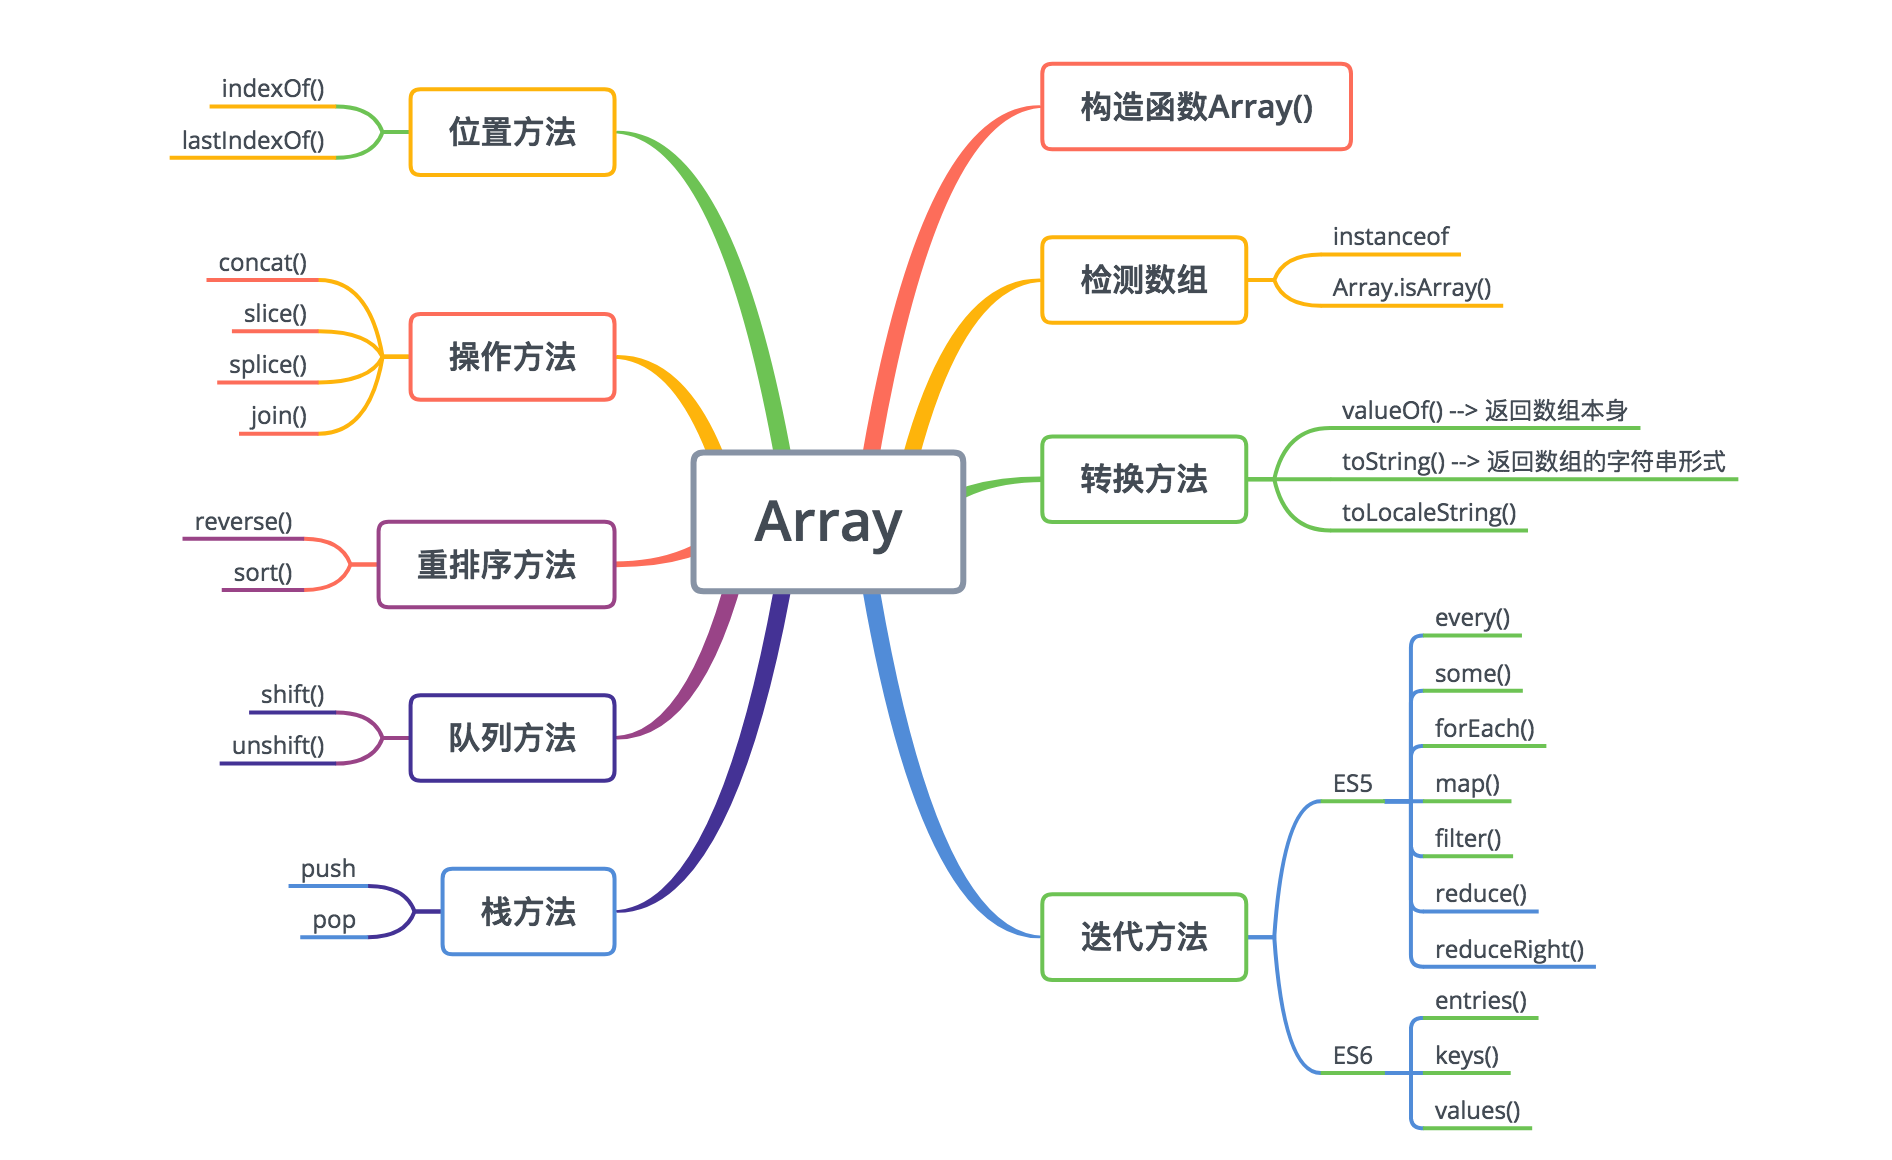
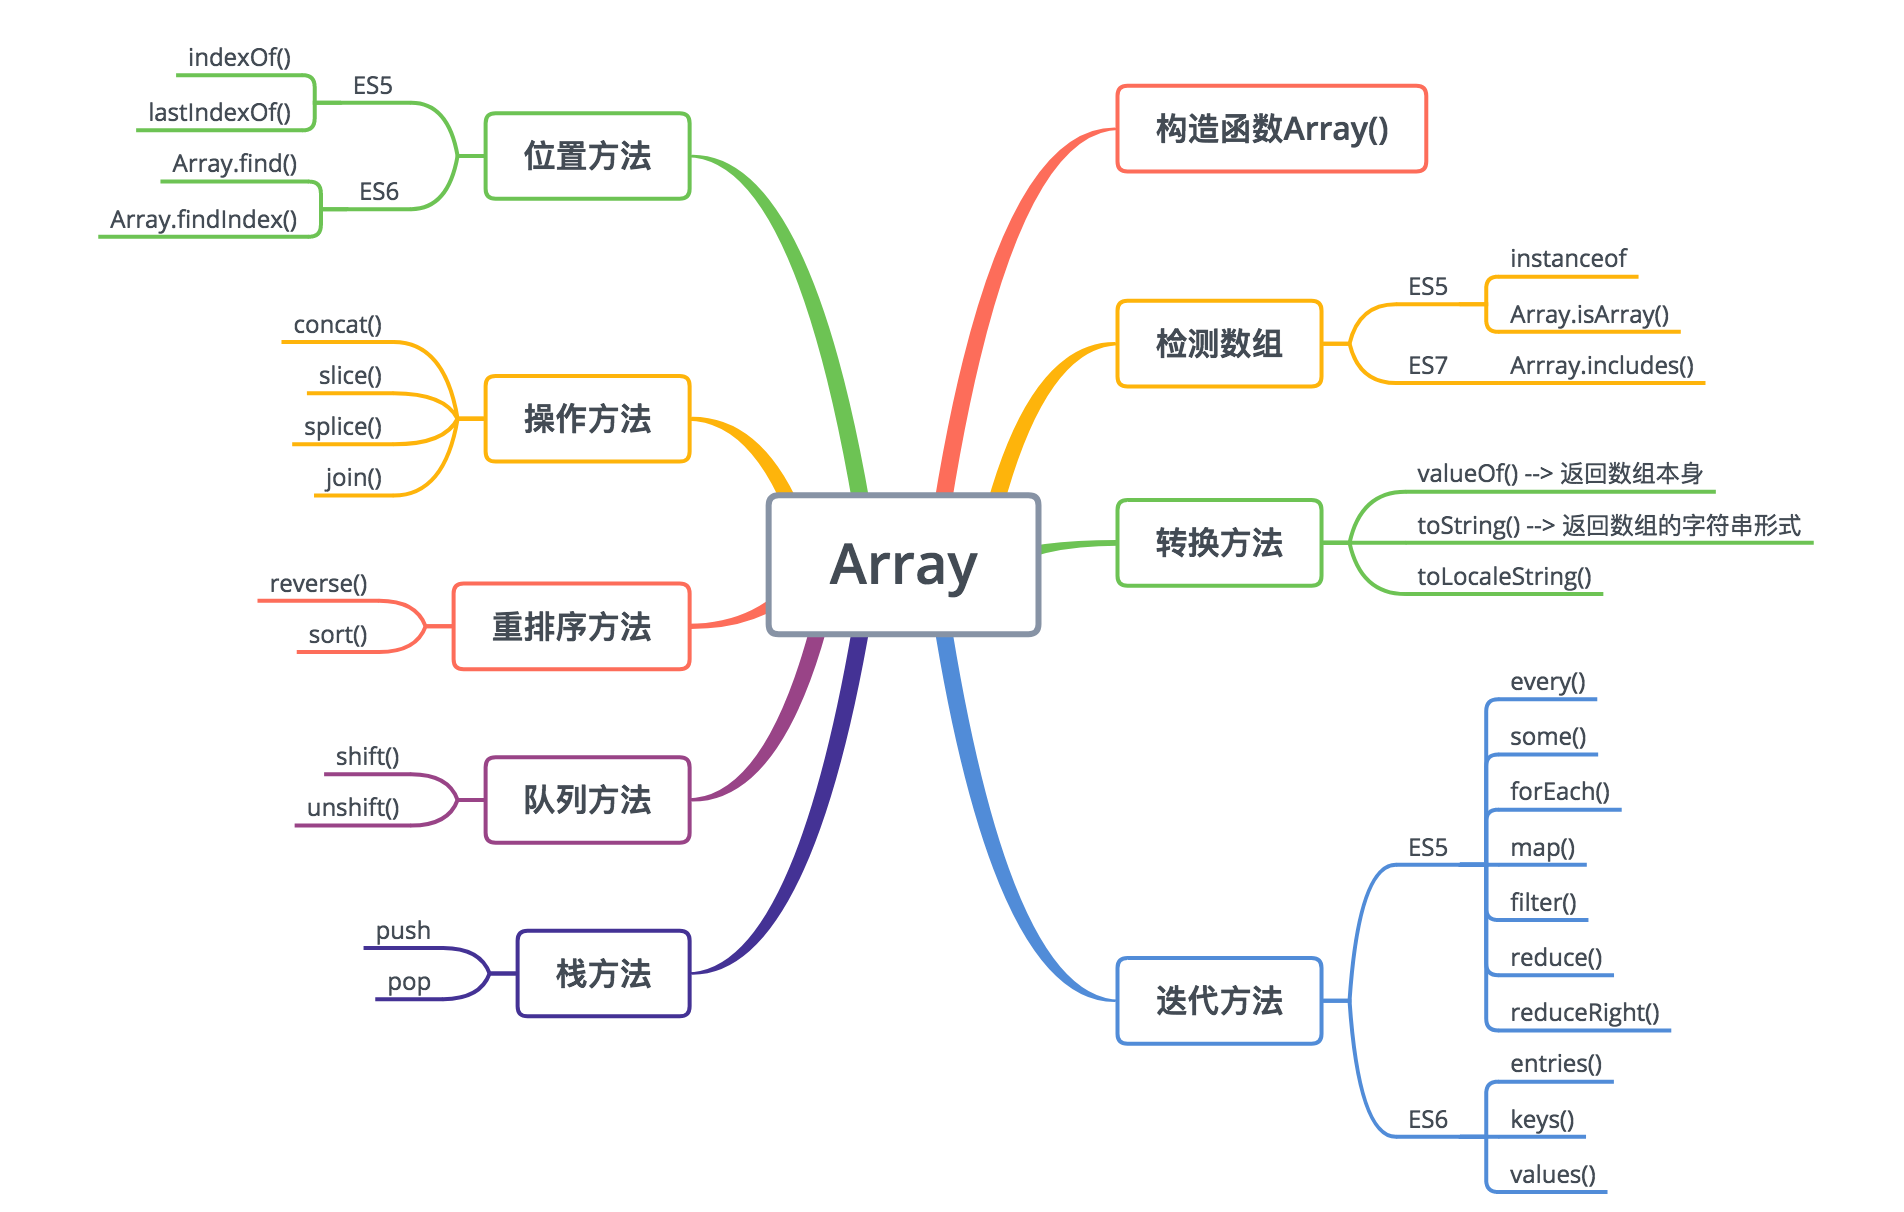
Updates SUMMARY.md
Auto commit by GitBook Editor

Changed region(s): [[0.0624, 0.031, 0.9667, 0.869], [0.686, 0.5276, 0.8732, 0.9931]]

diff --git a/di-si-zhang-ecmascript-core/47-array.md b/di-si-zhang-ecmascript-core/47-array.md
@@ -405,6 +405,11 @@ ECMAScript 5 为数组实例添加了两个位置方法：indexOf\(\)和lastInde
 
 这两个方法都返回要查找的项在数组中的位置，或者在没有找到的情况下返回 -1 。在比较第一个参数与数组中的每一项时，会使用全等操作符；也就是所，要求查找的项必须严格相等。
 
+ES6新增了如下两个方法
+
+* Array.find\(\)
+* Array.findIndex\(\)
+
 ## 九、迭代方法
 
 ECMAScript 5 为数组定义了 7 个迭代方法。每个方法都接收两个参数：要在每一项上运行的函数和（可选的）运行改函数的作用域对象——影响 this 的值。传入这些方法中的函数会接收三个参数：数组项的值、该项在数组中的位置和数组对象本身。
